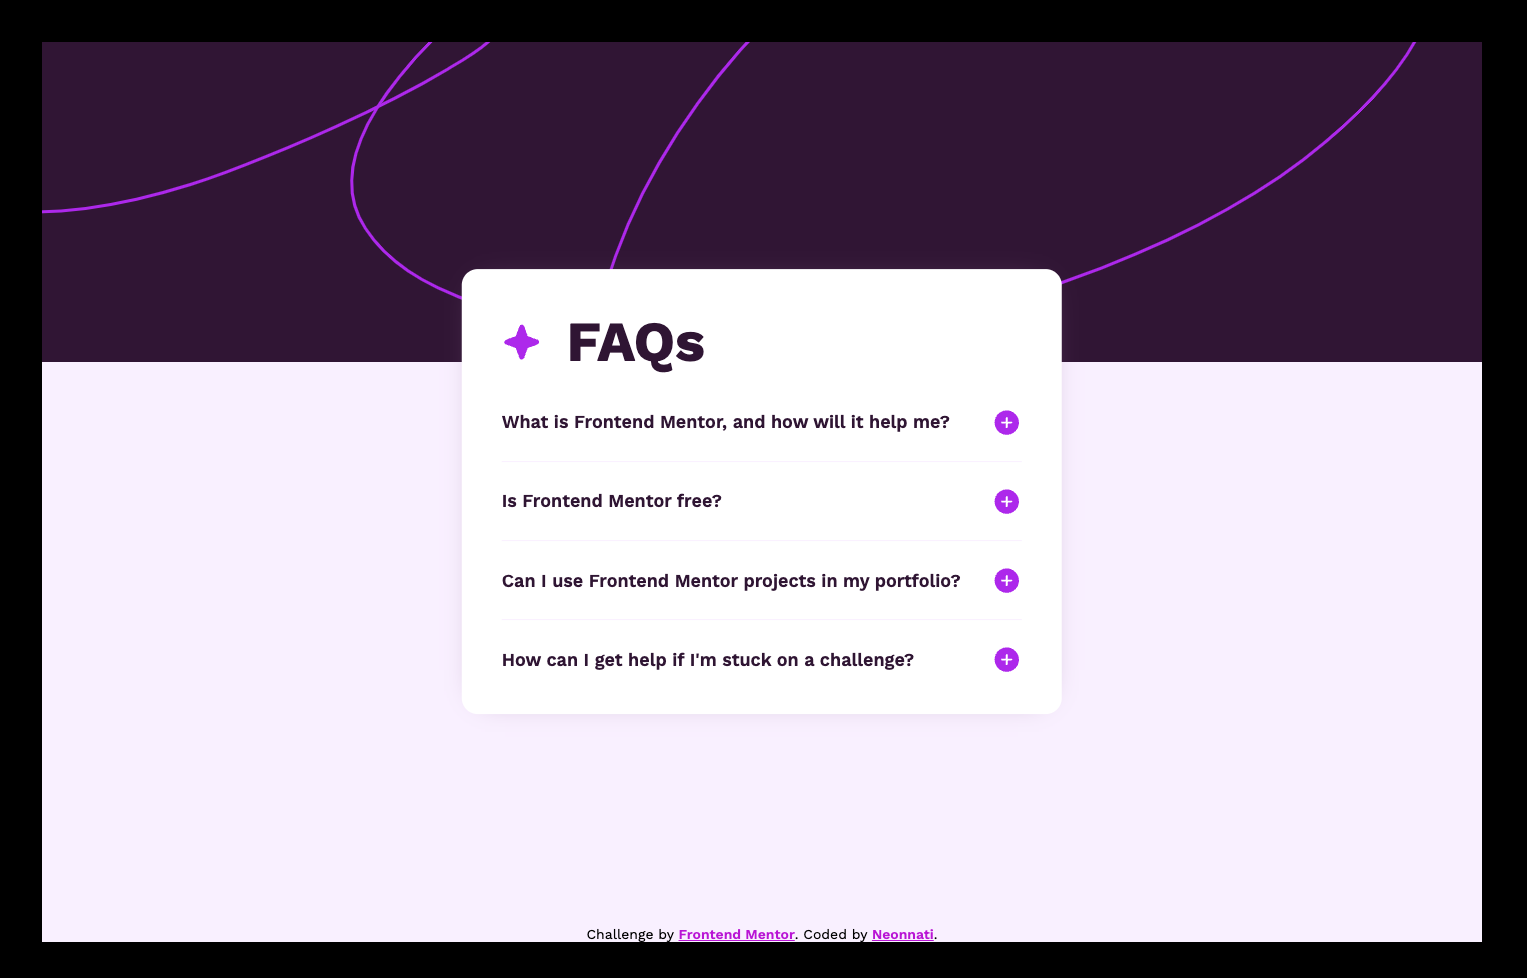
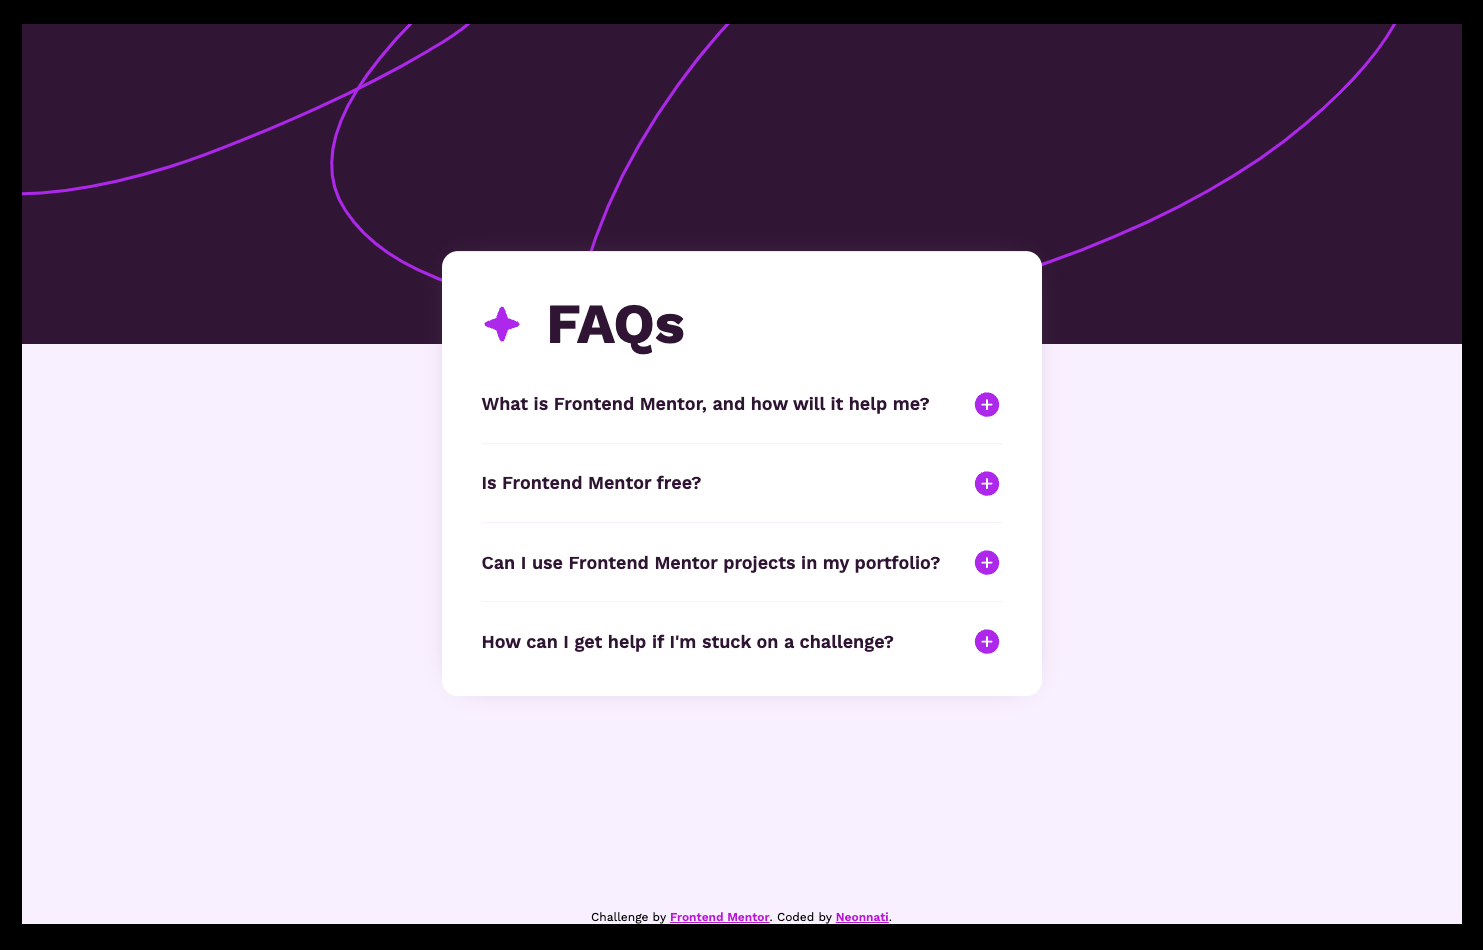
Add files via upload

diff --git a/index.html b/index.html
@@ -28,7 +28,7 @@
         <div class="faq-item">
           <div class="question" onclick="toggleAnswer(this, 'faq1')">
             What is Frontend Mentor, and how will it help me?
-            <span class="icon-plus"><img class="plus-minus" src="./assets/images/icon-plus.svg"></span></div>
+            <span class="icon-plus"><img class="plus-minus" src="./assets/images/icon-plus.svg" alt="plus-icon"></span></div>
           <div class="answer" id="faq1">
             Frontend Mentor offers realistic coding challenges to help developers improve their frontend coding skills with projects in HTML, CSS, and JavaScript. It's suitable for 
             all levels and ideal for portfolio building.
@@ -38,7 +38,7 @@
         <div class="faq-item">
           <div class="question" onclick="toggleAnswer(this, 'faq2')">
             Is Frontend Mentor free?
-            <span class="icon-plus"><img class="plus-minus" src="./assets/images/icon-plus.svg"></span></div>
+            <span class="icon-plus"><img class="plus-minus" src="./assets/images/icon-plus.svg" alt="plus-icon"></span></div>
           <div class="answer" id="faq2">
             Yes, Frontend Mentor offers both free and premium coding challenges, with the free option providing access to a range of projects suitable for all skill levels.
           </div>
@@ -47,7 +47,7 @@
         <div class="faq-item">
           <div class="question" onclick="toggleAnswer(this, 'faq3')">
             Can I use Frontend Mentor projects in my portfolio?
-            <span class="icon-plus"><img class="plus-minus" src="./assets/images/icon-plus.svg"></span></div>
+            <span class="icon-plus"><img class="plus-minus" src="./assets/images/icon-plus.svg" alt="plus-icon"></span></div>
           <div class="answer" id="faq3">
             Yes, you can use projects completed on Frontend Mentor in your portfolio. It's an excellent way to showcase your skills to potential employers!
           </div>
@@ -56,7 +56,7 @@
         <div class="faq-item">
           <div class="question" onclick="toggleAnswer(this, 'faq4')">
             How can I get help if I'm stuck on a challenge?
-            <span class="icon-plus"><img class="plus-minus" src="./assets/images/icon-plus.svg"></span></div>
+            <span class="icon-plus"><img class="plus-minus" src="./assets/images/icon-plus.svg" alt="plus-icon"></span></div>
           <div class="answer" id="faq4">
             The best place to get help is inside Frontend Mentor's Discord community. There's a help channel where you can ask questions and seek support from other community members.
           </div>
